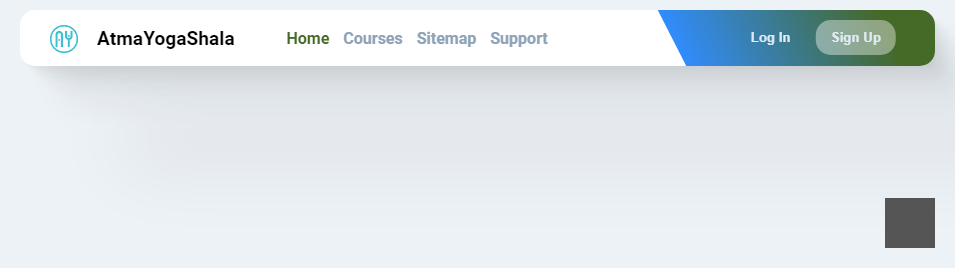
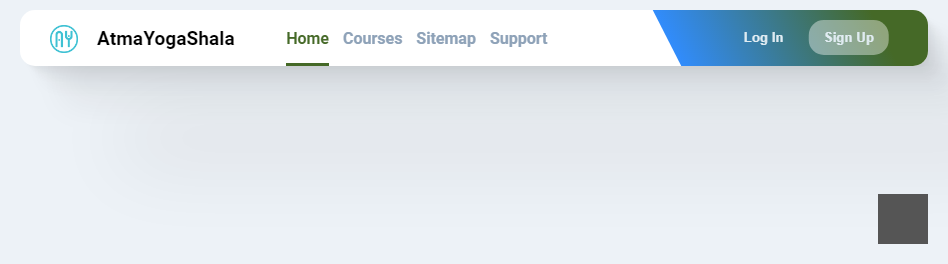
homeapge

diff --git a/public/common.css b/public/common.css
@@ -28,6 +28,14 @@
     font-family: 'Roboto-Slab-bold';
     src: url('./assets/Roboto-Bold.ttf');
 }
+@font-face {
+    font-family: 'Roboto-Slab-regular';
+    src: url('./assets/Roboto-Regular.ttf');
+}
+@font-face {
+    font-family: 'Roboto-Slab-light';
+    src: url('./assets/Roboto-Light.ttf');
+}
 
 * {
     box-sizing: border-box;
@@ -51,6 +59,9 @@ a, a:hover, a:focus, a:active {
 
 body {
     background-color: var(--bg);
+    font-family: 'Roboto-Slab-regular';
+    width: 100vw;
+    height: 1000px;
 }
 
 nav.top-nav {
@@ -64,9 +75,132 @@ nav.top-nav {
     border-radius: 15px;
     line-height: 36px;
     font-family: 'Roboto-Slab-bold', 'serif';
-    overflow: hidden;
     box-shadow: var(--shadow);
+    z-index: 10;
 }
+
+div.bannermain {
+    height: 360px;
+    background-image: url(./assets/yogapose2.jpg);
+    background-size: cover;
+    margin-top: 100px;
+    margin-left: 30px;
+    border-radius: 15px;
+    background-repeat: no-repeat;
+    background-position-x: right;
+    width: calc(100vw - 60px);
+    overflow: hidden;
+    background-color: var(--ttc);
+    background-position-y: center;
+    
+}
+
+div.bannermain div div {
+    margin-right: 10px;
+}
+
+div.bannermain div div:first-of-type {
+    color: var(--white);
+    font-size: 2.5em;
+    border-bottom: 2px solid var(--stc);
+    padding-bottom: 5px;
+    text-align: right;
+}
+
+div.bannermain div div:nth-of-type(2) {
+    padding-top: 5px;
+    font-size: 1.5em;
+    text-align: right;
+    color: var(--as);
+}
+
+div.bannermain > div {
+    height: inherit;
+    width: calc(55vw);
+    min-width: 300px;
+    padding: 60px 40px;
+    color: var(--ac3);
+    background-color: rgba(0, 0, 0, 0.5);
+    display: flex;
+    overflow: hidden;
+    justify-content: center;
+    align-items: flex-end;
+    align-content: flex-end;
+    flex-direction: column;
+    background: linear-gradient(90deg, rgba(0,0,0,0.8) 0%, rgba(0,0,0,0.2) 100%);
+}
+
+
+/* Desktop Start */
+@media only screen and (min-width: 756px) {
+    nav.top-nav {
+        overflow: hidden;
+    }
+
+    nav.top-nav div.links {
+        display: inline-block;
+        vertical-align: middle;
+        margin-left: calc(5vw);
+        font-weight: bold;
+        color: var(--stc);
+        font-size: small;
+    }
+    
+    nav.top-nav div.links a {
+        margin-right: 10px;
+    }
+    
+    .nav-active {
+        color: var(--ap);
+        font-size: 18px;
+        top: 1px;
+        position: relative;
+        padding-bottom: 13px;
+        border-bottom: 4px solid var(--ap);
+    }
+
+    nav.top-nav div.login button {
+        -moz-transform: skew(-27deg, 0deg) translateX(-50px);
+        -webkit-transform: skew(-27deg, 0deg) translateX(-50px);
+        -o-transform: skew(-27deg, 0deg) translateX(-50px);
+        -ms-transform: skew(-27deg, 0deg) translateX(-50px);
+        transform: skew(-27deg, 0deg)
+        translateX(-50px);
+        float: right;
+        margin-left: 25px;
+    }
+
+    nav.top-nav div.login {
+        display: inline-block;
+        position: absolute;
+        top: 0;
+        right: -11px;
+        height: 56px;
+        min-width: 230px;
+        width: 30%;
+        line-height: 56px;
+        padding-top: 20px;
+        -moz-transform: skew(27deg, 0deg);
+        -webkit-transform: skew(27deg, 0deg);
+        -o-transform: skew(27deg, 0deg);
+        -ms-transform: skew(27deg, 0deg);
+        transform: skew(27deg, 0deg);
+    }
+
+    nav.top-nav div.login {
+        max-width: 280px;
+    }
+
+    nav.top-nav div.login button:first-of-type {
+        top: -10px;
+        position: relative;
+    }
+
+    nav.top-nav span.menu {
+        display: none;
+    }
+  }
+/* Desktop End */
 nav.top-nav div.brand {
     display: inline-block;
     line-height: 36px;
@@ -83,31 +217,7 @@ nav.top-nav div.brand span {
     vertical-align: middle;
 }
 
-nav.top-nav div.links {
-    display: inline-block;
-    vertical-align: middle;
-    margin-left: calc(5vw);
-    font-weight: bold;
-    color: var(--stc);
-}
-
-nav.top-nav div.links a {
-    margin-right: 10px;
-}
-
-.active {
-    color: var(--ap);
-}
-
 nav.top-nav div.login button {
-    -moz-transform: skew(-27deg, 0deg) translateX(-50px);
-    -webkit-transform: skew(-27deg, 0deg) translateX(-50px);
-    -o-transform: skew(-27deg, 0deg) translateX(-50px);
-    -ms-transform: skew(-27deg, 0deg) translateX(-50px);
-    transform: skew(-27deg, 0deg)
-                translateX(-50px);
-    float: right;
-    margin-left: 25px;
     background: none;
     border: none;
     color: var(--ac3);
@@ -117,28 +227,115 @@ nav.top-nav div.login button {
 nav.top-nav div.login button:first-of-type {
     background-color: rgba(255, 255, 255, 0.4);
     padding: 10px 15px 10px 15px;
-    top: -10px;
-    position: relative;
     border-radius: 15px;
 }
 
 nav.top-nav div.login {
-    display: inline-block;
-    position: absolute;
-    top: 0;
-    right: -11px;
-    height: 56px;
-    min-width: 230px;
-    width: 30%;
-    max-width: 280px;
-    line-height: 56px;
-    padding-top: 20px;
-    -moz-transform: skew(27deg, 0deg);
-    -webkit-transform: skew(27deg, 0deg);
-    -o-transform: skew(27deg, 0deg);
-    -ms-transform: skew(27deg, 0deg);
-    transform: skew(27deg, 0deg);
     background: rgb(85,105,69);
     background: linear-gradient(90deg, var(--as) 0%, var(--ap) 80%);
 }
+/* Mobile Start */
+@media only screen and (max-width: 755px) {
+    nav.top-nav span.menu {
+        float: right;
+        padding: 3px;
+        position: relative;
+        top: -3px;
+        border-radius: 10px;
+    }
+
+    nav.top-nav span.menu:hover {
+        background-color: var(--bg);
+        color: var(--apl̥);
+    }
+
+    nav.top-nav div.links {
+        position: absolute;
+        top: 71px;
+        left: 30px;
+        padding: 5px 20px 5px 20px;
+        width: 0;
+        opacity: 0;
+        transition: opacity 0.2s ease, width 0.01s ease;
+        border-radius: inherit;
+        background-color: var(--white);
+        box-shadow: var(--shadow);
+    }
+
+    nav.top-nav div.links a {
+        display: list-item;
+        margin: 5px;
+        list-style-type: none;
+    }
+    .nav-active {
+        color: var(--ap);
+        border-bottom: 2px solid var(--ap);
+    }
+    nav.top-nav div.links a:nth-of-type(1)::before {
+        content: 'home';
+        font-family: 'Material Icons';
+        font-size: 22px;
+        vertical-align: -5px;
+        margin-right: 15px;
+    }
+    nav.top-nav div.links a:nth-of-type(2)::before {
+        content: 'self_improvement';
+        font-family: 'Material Icons';
+        font-size: 22px;
+        vertical-align: -5px;
+        margin-right: 15px;
+    }
+    nav.top-nav div.links a:nth-of-type(3)::before {
+        content: 'public';
+        font-family: 'Material Icons';
+        font-size: 22px;
+        vertical-align: -5px;
+        margin-right: 15px;
+    }
+    nav.top-nav div.links a:nth-of-type(4)::before {
+        content: 'support_agent';
+        font-family: 'Material Icons';
+        font-size: 22px;
+        vertical-align: -5px;
+        margin-right: 15px;
+    }
+
+    nav.top-nav div.login {
+        position: absolute;
+        top: 270px;
+        width: 0;
+        border-radius: inherit;
+        height: 56px;
+        padding: 10px;
+        left: 30px;
+        opacity: 0;
+        background: linear-gradient(90deg, var(--as) 0%, var(--ap) 100%);
+        text-align: center;
+        box-shadow: var(--shadow);
+        transition: opacity 0.2s ease, width 0.01s ease;
+        overflow: hidden;
+    }
+    
+    nav.top-nav div.login button.signup {
+        transform: translateX(-20px);
+
+    }
+    nav.top-nav div.login button.login::before {
+        content: ' | ';
+        margin-right: 10px;
+        margin-left: -10px;
+        
+    }
+
+    nav.top-nav span:hover ~ div {
+        width: calc(100vw - 100px);
+        opacity: 1;
+    }
+    nav.top-nav div.links:hover + div {
+        width: calc(100vw - 100px);
+        opacity: 1;
+    }
+    
+}
+/* Mobile End */
 

diff --git a/public/index.html b/public/index.html
@@ -14,8 +14,9 @@
                 <img src="./assets/logo.png" alt="Logo" />
                 <span>AtmaYogaShala</span>
             </div>
+            <span class="material-icons menu">menu</span>
             <div class="links">
-                <a href="" class="active" title="Explore">Home</a>
+                <a href="" class="nav-active" title="Explore">Home</a>
                 <a href="" title="Explore">Courses</a>
                 <a href="" title="Explore">Sitemap</a>
                 <a href="" title="Explore">Support</a>
@@ -25,6 +26,12 @@
                 <button class="login">Log In</button>
             </div>
         </nav>
+        <div class="bannermain">
+            <div>
+                <div>Take a deep Breath</div>
+                <div>take care of your soul</div>
+            </div>
+        </div>
         <div onclick="document.querySelector('html').requestFullscreen()" style="position: fixed; bottom: 20px; right: 20px; z-index: 5; height: 50px; width: 50px; background: #555;" ></div>
     </body>
 </html>
